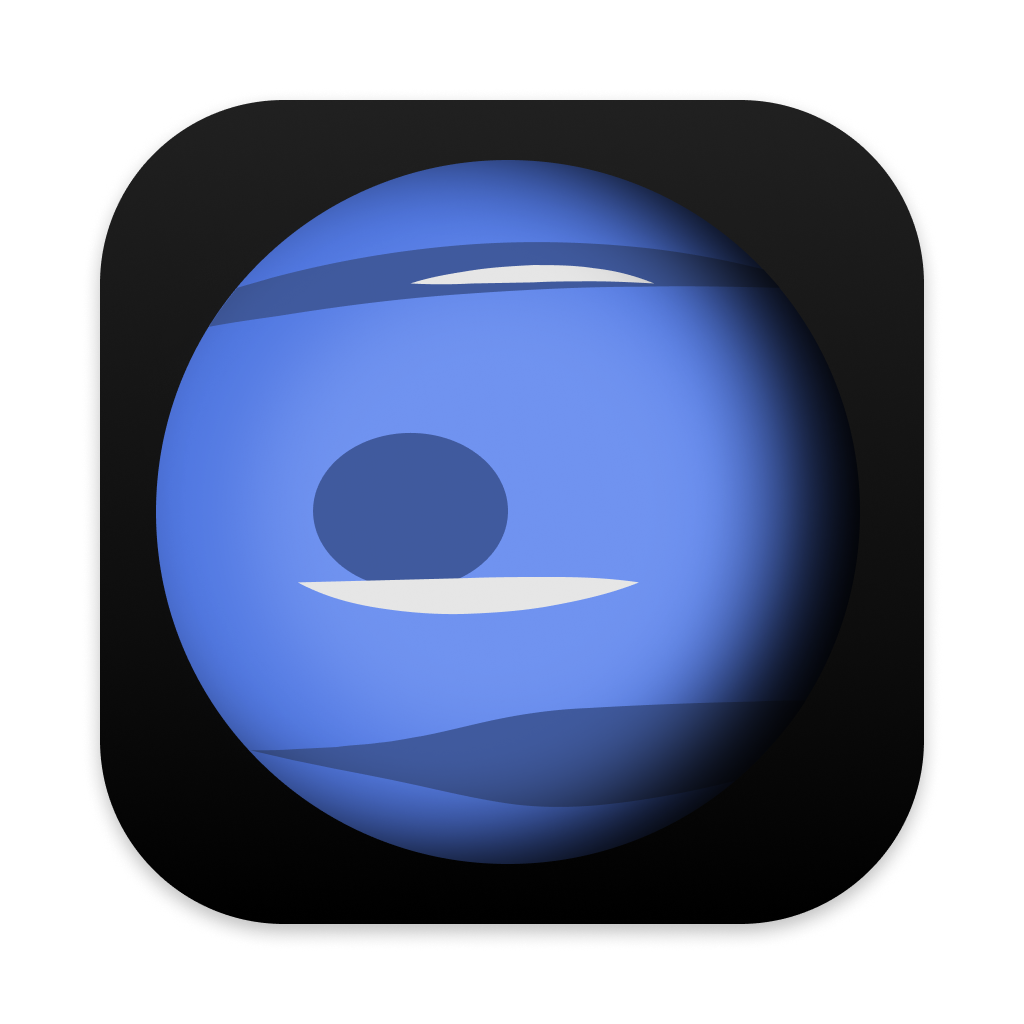
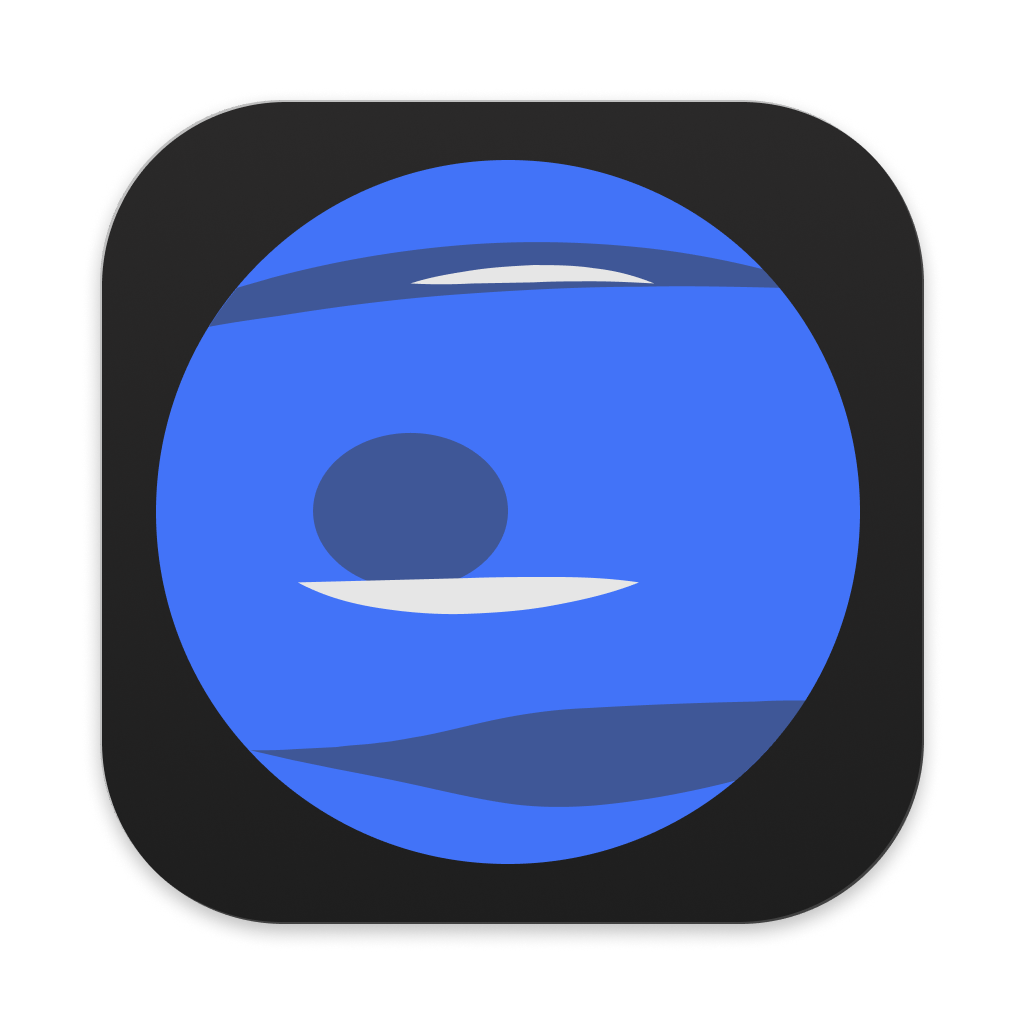
ref

diff --git a/start.py b/start.py
@@ -291,7 +291,7 @@ class App(QApplication):
             self.aboutToQuit.connect(lambda: self.win_main.on_exit())
 
             icon = QIcon("./images/icon.png")
-            # self.setWindowIcon(icon)
+            self.setWindowIcon(icon)
 
     def eventFilter(self, a0: QObject | None, a1: QEvent | None) -> bool:
         if a1.type() == QEvent.Type.ApplicationActivate: